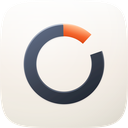
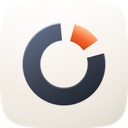
mac-doctor: centre the ember in the hole, thicken the ring
Two corrections, both reported.

The ember abutted the used arc, which made it read as continuous with what is
occupied. Centred in the hole with clearance on both sides it says the opposite,
and the opposite is what is true: reclaimed space is not part of the used
portion. 80 degrees of hole, 40 of ember, 20 clear each side.

The ring was too thin. R 280 W 152 against the original 292 108. A thin ring
reads as a progress spinner and loses its divisions below 32px; the heavier
stroke carries the three-part read at small sizes, and the radius came in to
keep the outer edge inside the safe zone.

Both swept rather than guessed. On thickness the next step up, W 172, starts
closing the inner hole; on spacing, 14 degrees a side is too tight to register
as clearance and 24 leaves the ember looking stranded.

16px re-checked: ring, ember and the hole all still read.

Changed region(s): [[0.1562, 0.1562, 0.8438, 0.8438]]

diff --git a/plugins/mac-doctor/assets/audit.html b/plugins/mac-doctor/assets/audit.html
@@ -50,10 +50,9 @@
     <td class="verdict">Ships. Passes all four non-negotiables, and after a late composition change it now carries the subject better
  than any other take. The ember was originally a wedge detached outside the ring, meaning "a piece came out". Inline it
  says what the tool actually reports: three quantities at once, dark for used, ember for just reclaimed, and the
- remaining hole for free. That is also the conventional gauge idiom, so it reads without being learned. The segment
- abuts the ring with butt caps and carries only its own edge catch, since an inline element that casts a float shadow
+ remaining hole for free. That is also the conventional gauge idiom, so it reads without being learned. The segment sits centred in the hole with clearance either side, on butt caps and carries only its own edge catch, since an inline element that casts a float shadow
  reads as sitting on top rather than in the track. Geometry and material are named constants in build_icon.py, so it
- stays editable and can be made variant-aware. Loses one point on 11: a ring gauge is legible but conventional.</td>
+ stays editable and can be made variant-aware. The ring is also heavier than the early builds, R 280 W 152 against 292 108, because a thin ring reads as a progress spinner and loses its divisions below 32px. Loses one point on 11: a ring gauge is legible but conventional.</td>
   </tr>
   <tr>
     <td class="take">C · icon-engineC-clean.png<small>GPT Image 2, corpus-referenced raster, deframed and remasked — material reference</small></td>

diff --git a/plugins/mac-doctor/assets/build_icon.py b/plugins/mac-doctor/assets/build_icon.py
@@ -38,23 +38,25 @@ SQUIRCLE = (Path(__file__).resolve().parents[2] / "create-mac-icon" /
 # ---- geometry ---------------------------------------------------------------
 S = 1024
 CX = CY = 512
-R = 292                 # ring radius
-W = 108                 # ring stroke
+R = 280                 # ring radius, pulled in as the stroke thickened
+W = 152                 # ring stroke; heavier reads better at small sizes
 GAP_MID = -55.0         # bisector of the gap, degrees, 0 = +x, y down
 # Half-width of the gap. 35 made a 70 degree hole, which is 19% of the ring
 # empty; the machine this was built for was at 6% free. 25 is both truer and
 # more legible, because a smaller hole lets the freed wedge match its width.
-GAP_HALF = 36.0
+GAP_HALF = 40.0
 # The reclaimed segment now sits INLINE in the ring rather than floating outside
 # it. Detached said "a piece came out"; inline says what the tool actually
 # reports, which is three quantities at once: dark for used, ember for just
 # reclaimed, and the remaining hole for free. It is also the conventional gauge
 # idiom, so it reads without being learned.
 #
-# The segment occupies the leading part of the hole and abuts the ring's end, so
-# it uses butt caps like the ring. Round caps would overlap the dark arc and
-# round off the join that makes the two read as one track.
-EMBER_SPAN = 44.0
+# The segment is CENTRED in the hole, with clearance on both sides. Abutting the
+# used arc made it read as continuous with it, as though the reclaimed space were
+# still part of what is occupied. Free space either side says the opposite, which
+# is the true statement: 80 degrees of hole, 40 of ember, 20 clear each side.
+# Butt caps, matching the ring.
+EMBER_SPAN = 40.0
 SCALE = 0.93            # composition scale, keeps the lifted wedge off the edge
 
 # ---- material ---------------------------------------------------------------
@@ -88,8 +90,7 @@ def build():
     ring_end = GAP_MID - GAP_HALF + 360      # ...all the way round
     ring_d = arc(ring_start, ring_end - 360, 1, 1)
 
-    hole_start = GAP_MID - GAP_HALF          # where the dark ring stops
-    wedge_d = arc(hole_start, hole_start + EMBER_SPAN, 0, 1)
+    wedge_d = arc(GAP_MID - EMBER_SPAN/2, GAP_MID + EMBER_SPAN/2, 0, 1)
 
     return f'''<svg xmlns="http://www.w3.org/2000/svg" viewBox="0 0 {S} {S}" width="{S}" height="{S}">
 <defs>
@@ -191,7 +192,7 @@ def build():
     <!-- the reclaimed segment, inline and abutting the ring -->
     <path d="{wedge_d}" fill="none" stroke="url(#ember)"
           stroke-width="{W}" stroke-linecap="butt"/>
-    <path d="{arc(hole_start, hole_start + EMBER_SPAN, 0, 1, R + W/2 - 5)}" fill="none"
+    <path d="{arc(GAP_MID - EMBER_SPAN/2, GAP_MID + EMBER_SPAN/2, 0, 1, R + W/2 - 5)}" fill="none"
           stroke="url(#emberEdge)" stroke-width="9" stroke-linecap="round"/>
   </g>
 </g>

diff --git a/plugins/mac-doctor/assets/icon-notes.md b/plugins/mac-doctor/assets/icon-notes.md
@@ -44,14 +44,20 @@ tool actually reports: three quantities at once. Dark for used, ember for just
 reclaimed, and the remaining hole for free. It is also the conventional gauge
 idiom, so it reads without being learned.
 
-Mechanically the inline segment abuts the ring with **butt caps**, matching the
-ring's own, and carries only an edge catch rather than a drop shadow. An inline
-element with a float shadow reads as sitting on top of the track instead of in
-it. Round caps would overlap the dark arc and round off the join.
+The ember is **centred in the hole with clearance on both sides**. The first
+inline attempt had it abutting the used arc, which made it read as continuous
+with what is occupied. Free space either side says the opposite, and the
+opposite is what is true: 80 degrees of hole, 40 of ember, 20 clear each side.
 
-Proportions were swept: at 34 degrees the ember is too slight to be the focal
-accent the brief reserves it for, and at 52 it crowds the free gap. 44 degrees of
-ember in a 72 degree hole leaves 28 degrees reading clearly as empty.
+Butt caps, matching the ring's own, and an edge catch rather than a drop shadow.
+An inline element with a float shadow reads as sitting on top of the track
+instead of in it.
+
+The ring is also heavier than the first builds: `R 280, W 152` against the
+original `292 / 108`. A thin ring reads as a progress spinner and loses
+definition below 32px; the heavier stroke carries the three-part division at
+small sizes, and the radius was pulled in to keep the outer edge in the safe
+zone. Proportions were swept rather than guessed at each step.
 
 ### Why not the raster
 
